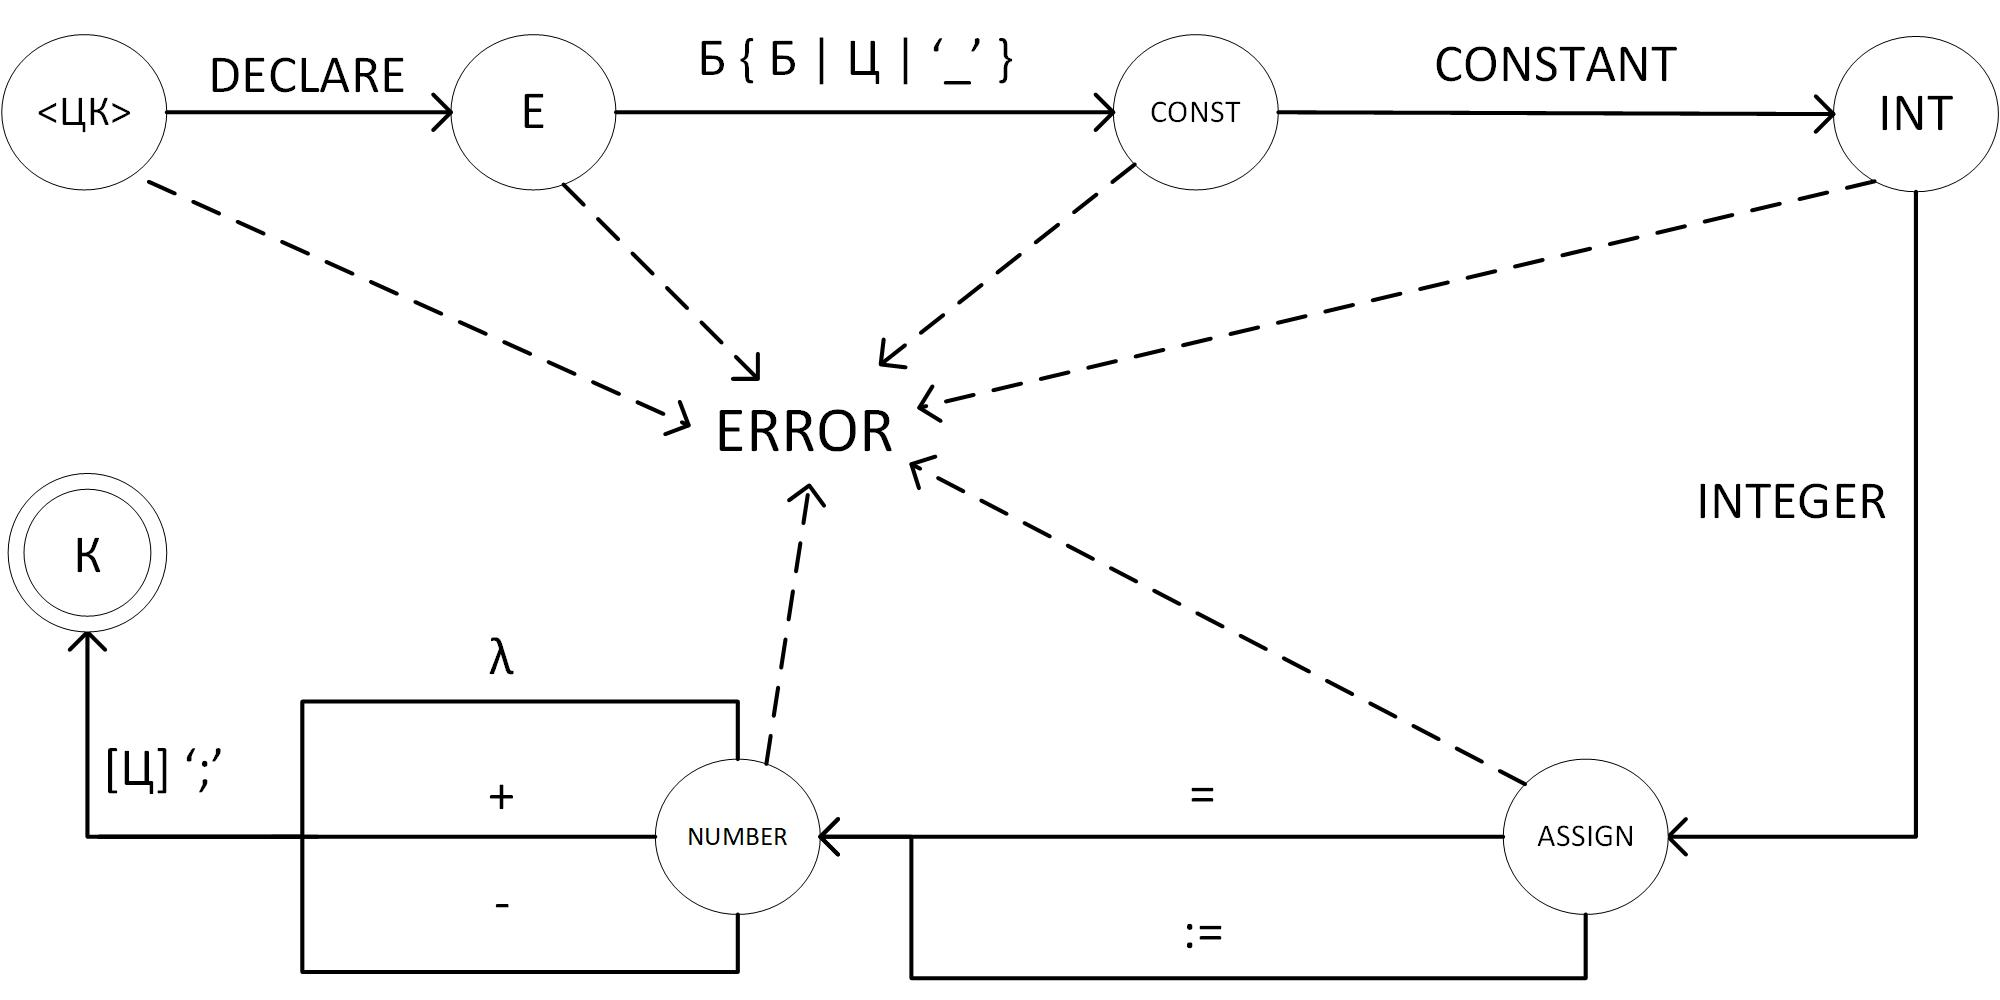
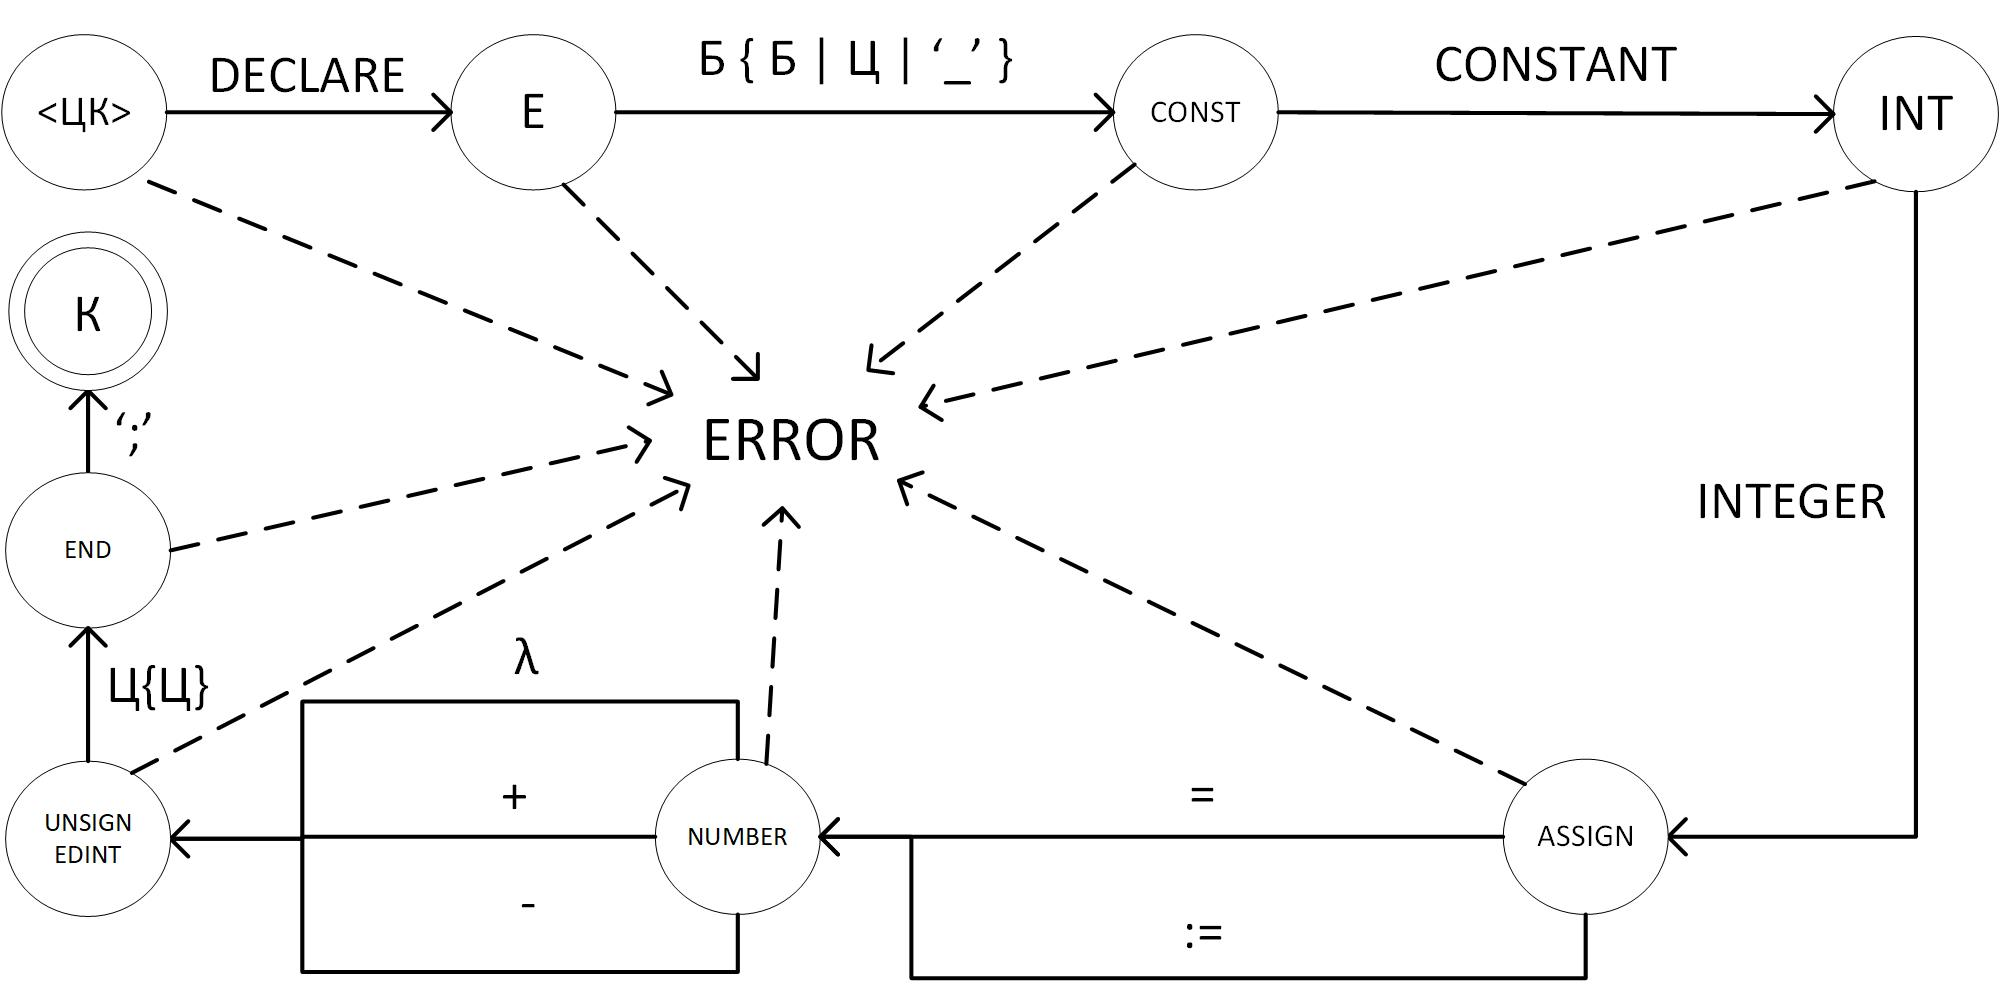
fixed grammar

diff --git a/Compiler/Resources/Grammar.html b/Compiler/Resources/Grammar.html
@@ -18,10 +18,12 @@
     &emsp;3. CONST → ‘CONSTANT’ INT
     &emsp;4. INT → ‘INTEGER’ ASSIGN
     &emsp;5. ASSIGN → ‘:=’ NUMBER | ‘=’ NUMBER
-    &emsp;6. NUMBER → SIGN [ Ц ] ‘;’
-    &emsp;7. SIGN → ‘+’ | ‘-‘ | ε
-    &emsp;8. Б → ‘a’ | ‘b’ | … | ‘z’ | ‘A’ | ‘B’ | … | ‘Z’
-    &emsp;9. Ц → ‘0’ | ‘1’ | … | ‘9’
+    &emsp;6. NUMBER → SIGN UNSIGNEDINT
+    &emsp;7. SIGN → [ ‘+’ | ‘-‘ ]
+    &emsp;8. UNSIGNEDINT → Ц { Ц } END
+    &emsp;9. END → ‘;’
+    &emsp;10. Б → ‘a’ | ‘b’ | … | ‘z’ | ‘A’ | ‘B’ | … | ‘Z’
+    &emsp;11. Ц → ‘0’ | ‘1’ | … | ‘9’
     }
     </div>
 </body>
